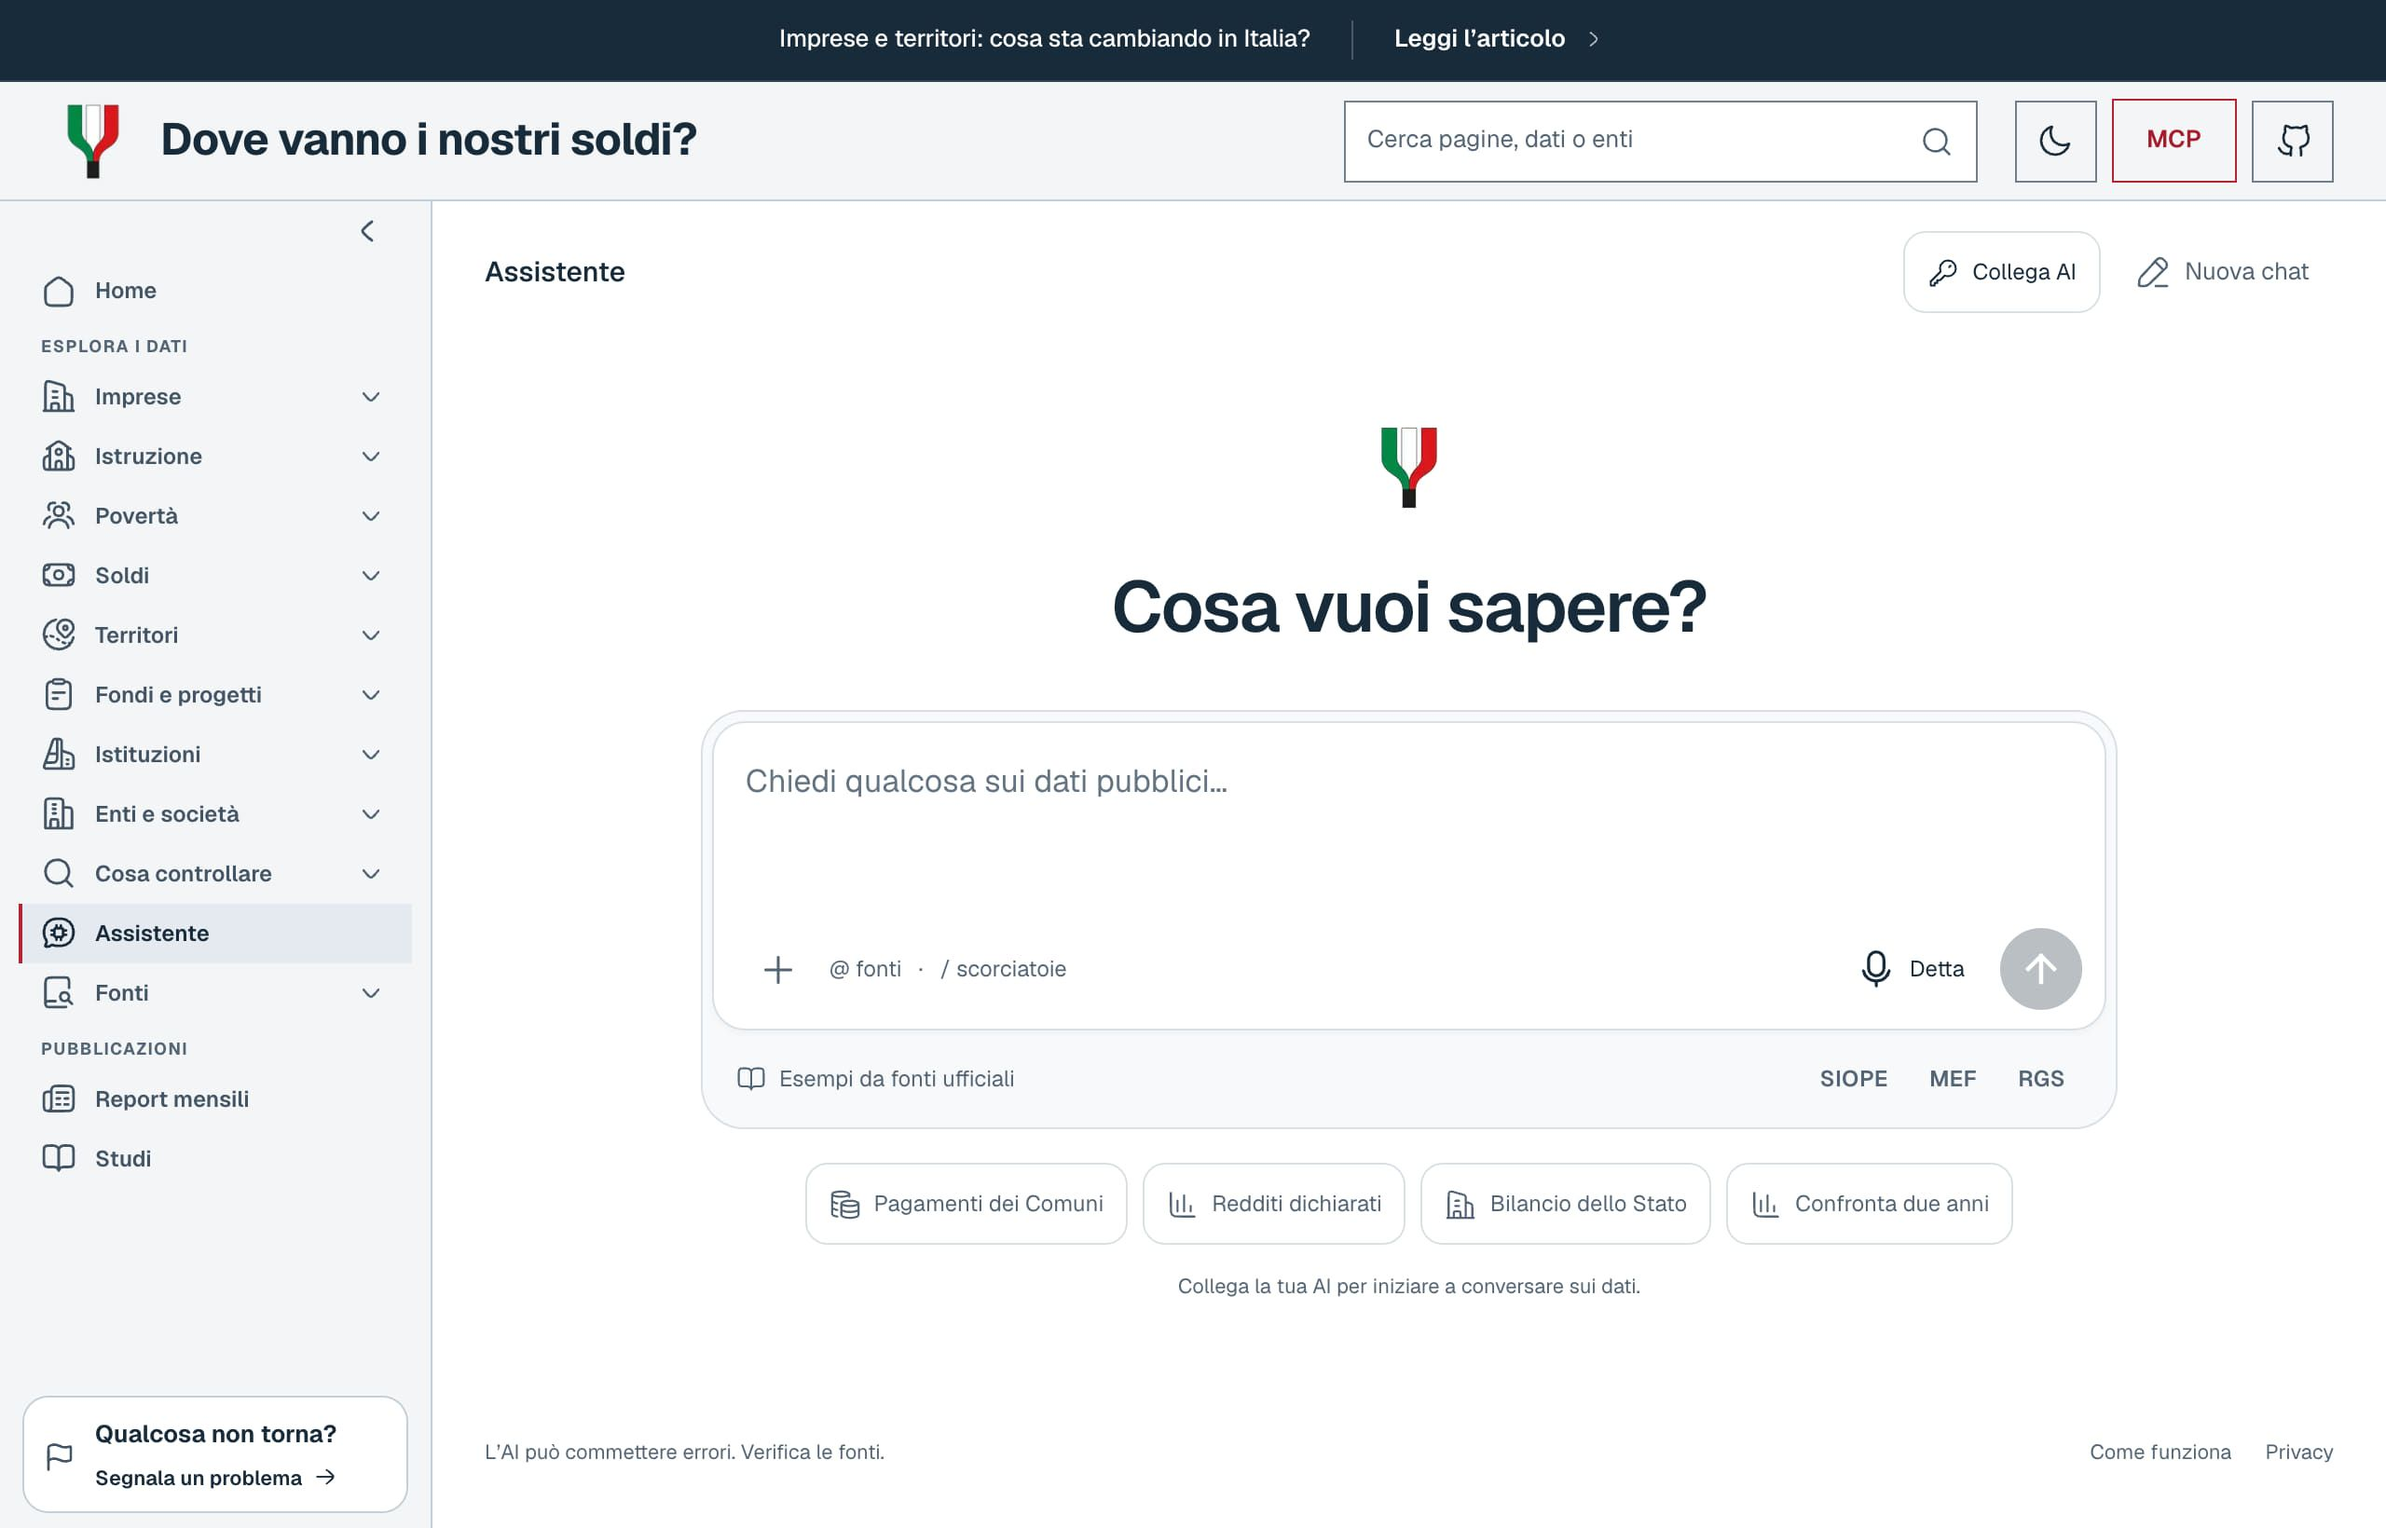
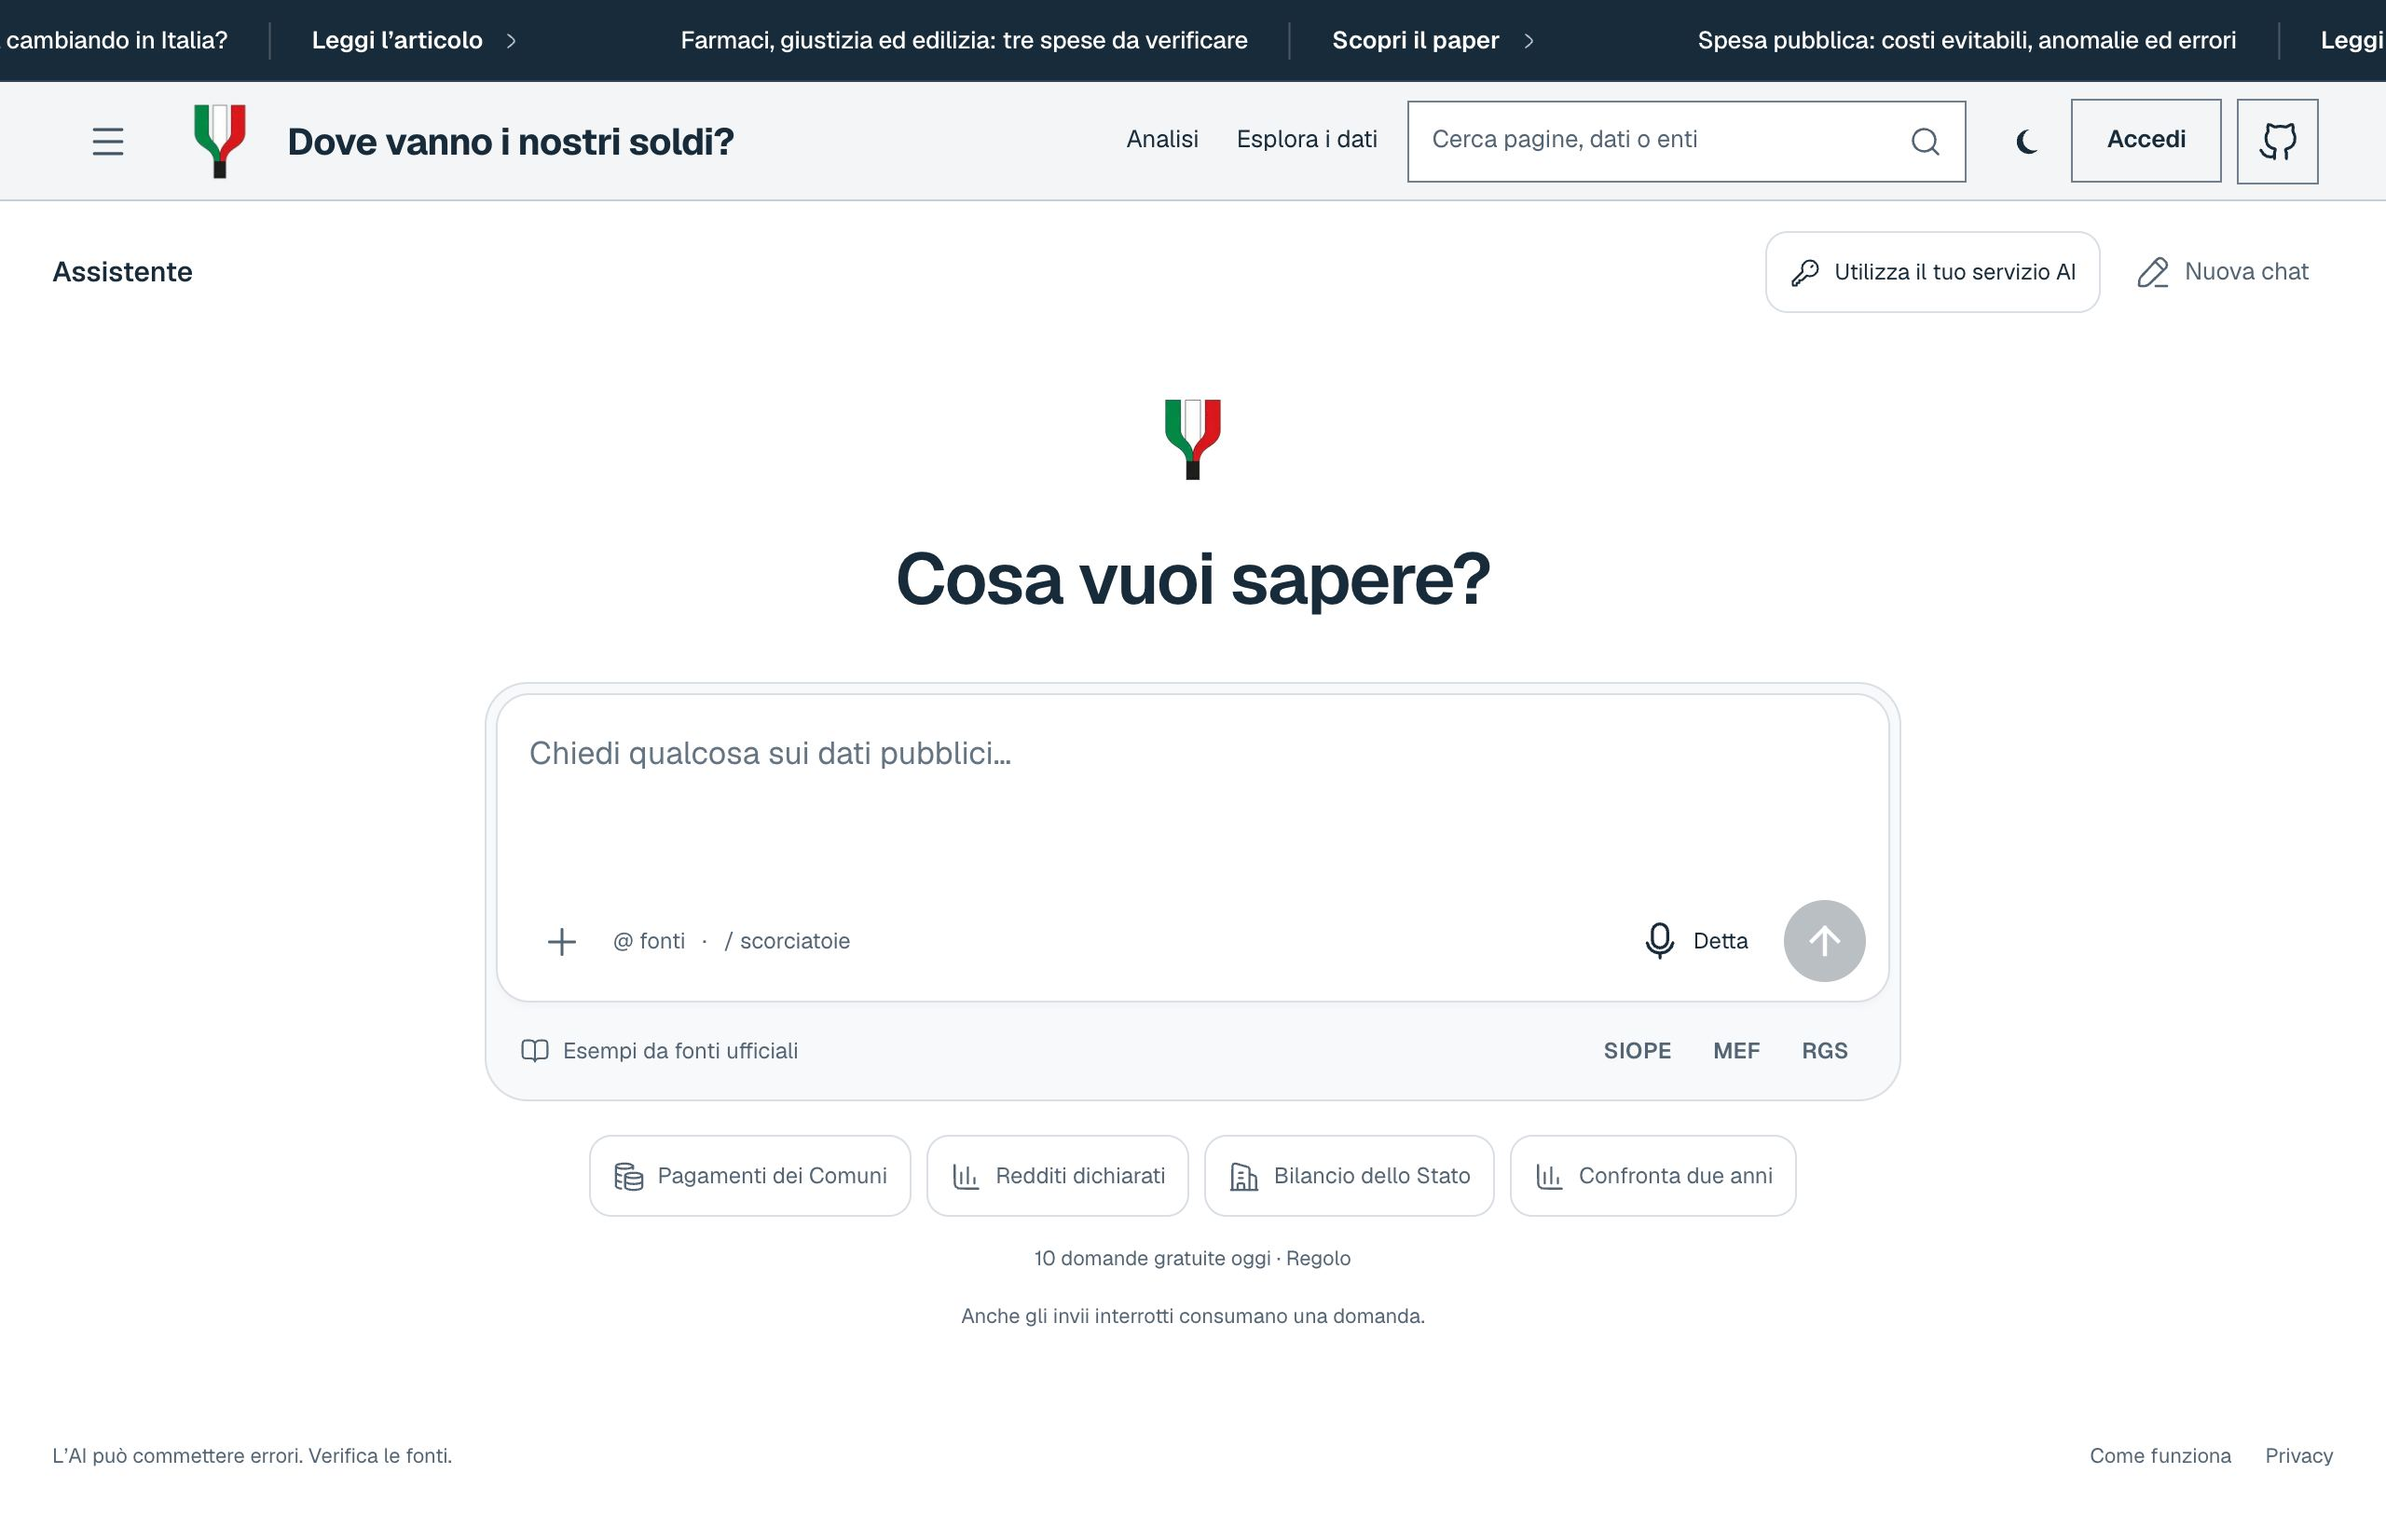
Aggiorna gli screenshot del README al nuovo stile in produzione.
Rigenera le catture dal sito live, aggiunge la panoramica della spesa e
allinea le didascalie alla home a percorsi di analisi.

diff --git a/README.md b/README.md
@@ -20,45 +20,46 @@ Bilanci, pagamenti, appalti, debito, partecipazioni e fonti istituzionali esisto
 
 Oggi il portale copre spesa pubblica (Eurostat COFOG), pagamenti comunali, imprese, istruzione, sanità, pensioni, debito, fondi e progetti, **opere pubbliche (previsto vs effettivo)**, enti, appalti ANAC, povertà, segnali da fonti ufficiali e una pagella politico-economica dei governi. Il [registro fonti](https://www.dovevannoinostrisoldi.com/fonti) elenca 60 collegamenti ufficiali. Il [catalogo MCP](https://www.dovevannoinostrisoldi.com/mcp) espone 103 dataset interrogabili in sola lettura. L’[assistente](https://www.dovevannoinostrisoldi.com/assistente) collega la tua AI personale per conversare sui dati verificati del sito e sui documenti che alleghi.
 
-![Home: spesa pubblica Eurostat COFOG, bilancio dello Stato e pagamenti dei Comuni](docs/readme/home.jpg)
+![Home: percorsi di analisi su spesa pubblica, Comuni, politica, economia e controlli](docs/readme/home.jpg)
 
-| Territori | Pagella dei governi |
+| Spesa pubblica | Territori |
 | --- | --- |
-| ![Territori: pagamenti comunali per regione, con filtro anno e metrica](docs/readme/territori.jpg) | ![Pagella politico-economica del governo in carica, con confronto europeo](docs/readme/governi.jpg) |
+| ![Spesa pubblica: Eurostat COFOG, bilancio dello Stato e pagamenti dei Comuni](docs/readme/panoramica.jpg) | ![Territori: pagamenti comunali per regione, con filtro anno e metrica](docs/readme/territori.jpg) |
 
-| Atlante Istruzione | Atlante Imprese |
+| Pagella dei governi | Atlante Imprese |
 | --- | --- |
-| ![Atlante Istruzione: studenti osservati per Regione, anno e percorso](docs/readme/istruzione.jpg) | ![Atlante Imprese: imprese attive per Regione, settore ATECO e periodo](docs/readme/imprese.jpg) |
+| ![Pagella politico-economica del governo in carica, con confronto europeo](docs/readme/governi.jpg) | ![Atlante Imprese: imprese attive per Regione, settore ATECO e periodo](docs/readme/imprese.jpg) |
 
-| Opere pubbliche | Operatori ANAC |
+| Atlante Istruzione | Opere pubbliche |
 | --- | --- |
-| ![Opere pubbliche: confronto costo previsto e costo effettivo OpenBDAP MOP](docs/readme/opere.jpg) | ![Appalti: indice nazionale operatori ANAC](docs/readme/appalti-operatori.jpg) |
+| ![Atlante Istruzione: studenti osservati per Regione, anno e percorso](docs/readme/istruzione.jpg) | ![Opere pubbliche: confronto costo previsto e costo effettivo OpenBDAP MOP](docs/readme/opere.jpg) |
 
-| Cosa controllare | Catalogo dati |
+| Operatori ANAC | Cosa controllare |
 | --- | --- |
-| ![Cosa controllare: segnali da fonti ufficiali, con limiti visibili](docs/readme/controlli.jpg) | ![Catalogo dati: dataset integrati, filtri per evidenza e pubblicazione](docs/readme/dati.jpg) |
+| ![Appalti: indice nazionale operatori ANAC](docs/readme/appalti-operatori.jpg) | ![Cosa controllare: segnali da fonti ufficiali, con limiti visibili](docs/readme/controlli.jpg) |
 
-| Confronto Comuni | Debito pubblico |
+| Catalogo dati | Confronto Comuni |
 | --- | --- |
-| ![Confronto Comuni: quattro profili OpenCivitas e perimetro 2022](docs/readme/confronto-territori.jpg) | ![Debito pubblico: stock, detentori e interessi da Banca d'Italia ed Eurostat](docs/readme/debito.jpg) |
+| ![Catalogo dati: dataset integrati, filtri per evidenza e pubblicazione](docs/readme/dati.jpg) | ![Confronto Comuni: quattro profili OpenCivitas e perimetro 2022](docs/readme/confronto-territori.jpg) |
 
-| Sanità | Spese dello Stato |
+| Debito pubblico | Sanità |
 | --- | --- |
-| ![Sanità: voci del Conto economico SSN, personale e servizi](docs/readme/sanita.jpg) | ![Spese dello Stato: pagamenti OpenBDAP per funzione e amministrazione](docs/readme/stato.jpg) |
+| ![Debito pubblico: stock, detentori e interessi da Banca d'Italia ed Eurostat](docs/readme/debito.jpg) | ![Sanità: voci del Conto economico SSN, personale e servizi](docs/readme/sanita.jpg) |
 
-| Povertà | Assistente |
+| Spese dello Stato | Povertà |
 | --- | --- |
-| ![Povertà: indicatori ISTAT assoluta e relativa](docs/readme/poverta.jpg) | ![Assistente: chat sui dati verificati del sito](docs/readme/assistente.jpg) |
+| ![Spese dello Stato: pagamenti OpenBDAP per funzione e amministrazione](docs/readme/stato.jpg) | ![Povertà: indicatori ISTAT assoluta e relativa](docs/readme/poverta.jpg) |
 
-| MCP |
-| --- |
-| ![Pagina MCP: endpoint pubblico, strumenti list_datasets e query_dataset](docs/readme/mcp.jpg) |
+| Assistente | MCP |
+| --- | --- |
+| ![Assistente: chat sui dati verificati del sito](docs/readme/assistente.jpg) | ![Pagina MCP: endpoint pubblico, strumenti list_datasets e query_dataset](docs/readme/mcp.jpg) |
 
 ## Cosa trovi sul sito
 
 | Sezione | In sintesi |
 | --- | --- |
-| [Home](https://www.dovevannoinostrisoldi.com/) | Spesa PA (Eurostat COFOG), bilancio dello Stato e pagamenti dei Comuni |
+| [Home](https://www.dovevannoinostrisoldi.com/) | Percorsi di analisi su spesa, territori, istituzioni, economia e controlli |
+| [Spesa pubblica](https://www.dovevannoinostrisoldi.com/spese/panoramica) | Spesa PA (Eurostat COFOG), bilancio dello Stato e pagamenti dei Comuni |
 | [Imprese](https://www.dovevannoinostrisoldi.com/imprese) | Imprese attive, addetti, localizzazioni e fatturato aggregato (ISTAT) |
 | [Istruzione](https://www.dovevannoinostrisoldi.com/istruzione) | Scuola secondaria di II grado per Regione (MIM) e università/ricerca |
 | [Povertà](https://www.dovevannoinostrisoldi.com/poverta) | Povertà assoluta e relativa (ISTAT) |
@@ -103,7 +104,7 @@ Dettaglio: [docs/LEGAL_AND_ETHICS.md](docs/LEGAL_AND_ETHICS.md) e [docs/ARCHITEC
 
 ## Anno e limiti
 
-Su Home, Soldi e Territori puoi scegliere `2024`, `2025` o `2026` (resta nell’URL, es. `/?anno=2025`).
+Su Spesa pubblica, Soldi e Territori puoi scegliere `2024`, `2025` o `2026` (resta nell’URL, es. `/spese/panoramica?anno=2025`).
 
 Limiti importanti:
 
